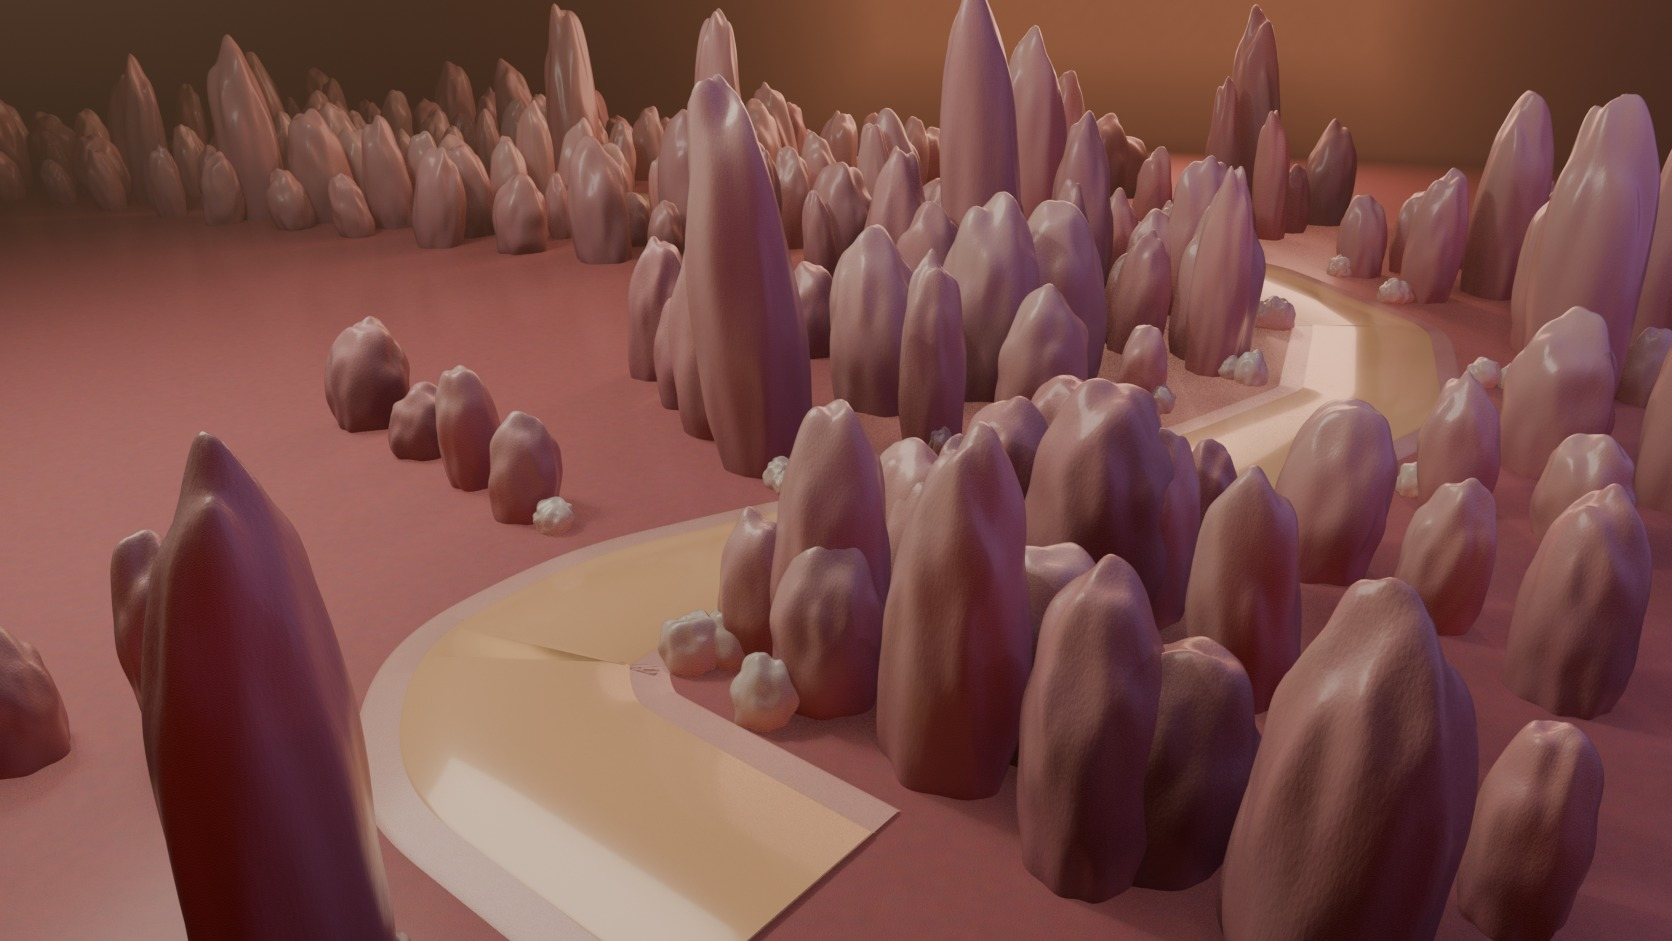
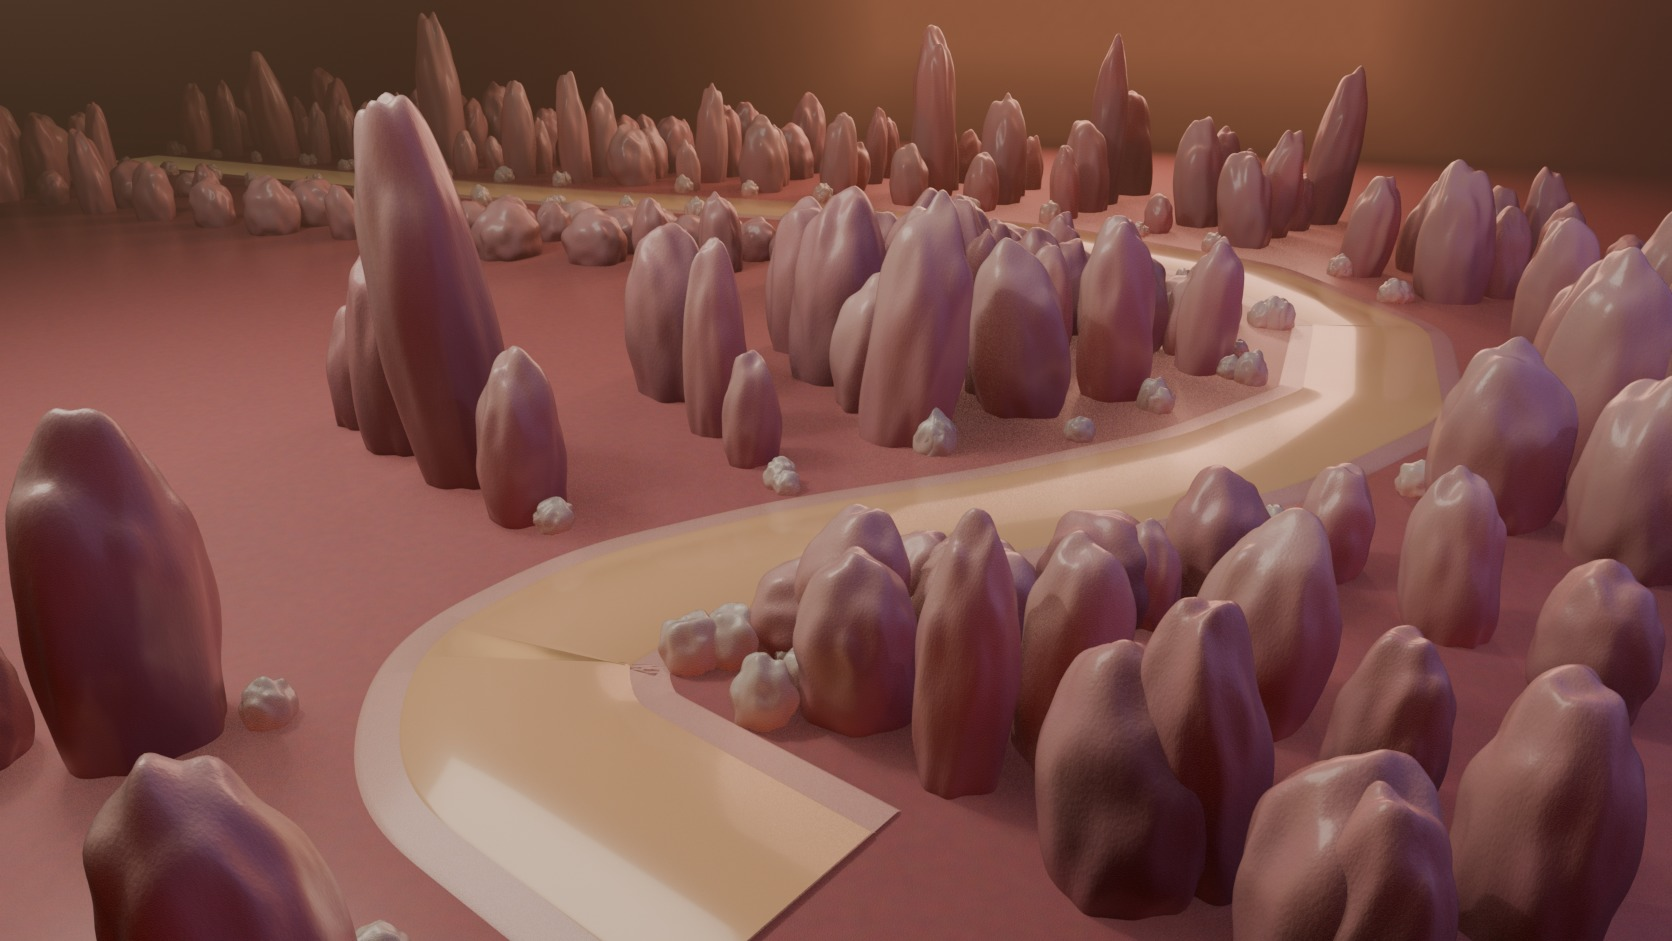
융모 맵: 길을 가리는 융모를 자동으로 낮추거나 제외(화면 가림 판정), 길 여백 확대 — 플레이어가 경로 전 구간을 쏠 수 있게

diff --git a/tools/blender/build_map.py b/tools/blender/build_map.py
@@ -261,6 +261,34 @@ def world_points(spec, route):
     return [screen_to_ground(spec, sx, sy) for sx, sy in route['points']]
 
 
+def road_screen_points(scene, cam, world_pts):
+    """길의 화면 좌표와 카메라 거리. 가림 판정에 쓴다."""
+    out = []
+    for x, z in world_pts:
+        p = ground(x, z)
+        sx, sy = project(scene, cam, p)
+        out.append((sx, sy, (p - cam.location).length))
+    return out
+
+
+def occludes_road(scene, cam, road_screen, cx, cz, radius, height):
+    """이 덩어리가 자기보다 먼 길 구간을 화면에서 덮는지."""
+    base = ground(cx, cz)
+    dist = (base - cam.location).length
+    bx, by = project(scene, cam, base)
+    tx, ty = project(scene, cam, ground(cx, cz, height))
+    lx, _ = project(scene, cam, ground(cx + radius, cz))
+    rx, _ = project(scene, cam, ground(cx - radius, cz))
+    half = max(abs(lx - bx), abs(rx - bx)) * 1.05
+    top, bottom = min(ty, by), max(ty, by)
+    for sx, sy, sd in road_screen:
+        if sd <= dist:
+            continue                      # 덩어리보다 가까운 길은 가려지지 않는다
+        if abs(sx - bx) < half and top - .01 < sy < bottom + .01:
+            return True
+    return False
+
+
 # ---------- 지형 ----------
 def organic_blob(name, location, scale, mat, seed=0, rough=0.11):
     bpy.ops.mesh.primitive_ico_sphere_add(subdivisions=3, radius=1.0, location=location)
@@ -283,7 +311,7 @@ def organic_blob(name, location, scale, mat, seed=0, rough=0.11):
     return obj
 
 
-def build_walls(spec, world_pts, mats, scene=None, cam=None):
+def build_walls(spec, world_pts, mats, scene=None, cam=None, road_screen=None):
     """길 옆으로 월드 여유를 두고 세운다. 길 반폭 + 덩어리 반지름 + 여백을 확보한다."""
     rng = random.Random(spec.get('seed', 7))
     cfg = spec['walls']
@@ -304,6 +332,16 @@ def build_walls(spec, world_pts, mats, scene=None, cam=None):
                 if rng.random() < cfg.get('tall_chance', .22):
                     height *= rng.uniform(1.35, 1.8)
                 mat = mats['wall'] if lane == 0 else (mats['wall_mid'] if lane == 1 else mats['wall_far'])
+                # 길을 가리면 낮추고, 그래도 가리면 세우지 않는다 (플레이어가 쏠 수 있어야 한다)
+                if road_screen is not None:
+                    for _ in range(4):
+                        if not occludes_road(scene, cam, road_screen, cx, cz, radius, height):
+                            break
+                        height *= 0.62
+                    else:
+                        continue
+                    if height < radius * 0.7:
+                        continue
                 blob = organic_blob(f'w{i}-{side}-{lane}',
                                     ground(cx, cz, height * 0.5),
                                     (radius, radius * rng.uniform(.85, 1.15), height),
@@ -463,7 +501,8 @@ def main():
         obj.data.materials.append(mats['road'])
         edge = road_curve(route['id'] + '-curb', pts, spec['road']['width'] + spec['road']['curb'], lift=-0.05)
         edge.data.materials.append(mats['curb'])
-        build_walls(spec, pts, mats)
+        screen = road_screen_points(scene, cam, pts)
+        build_walls(spec, pts, mats, scene, cam, screen)
         build_detail(spec, pts, mats)
 
     out_image = os.path.join(ROOT, 'assets', 'maps', f"map_{spec['key']}.jpg")
